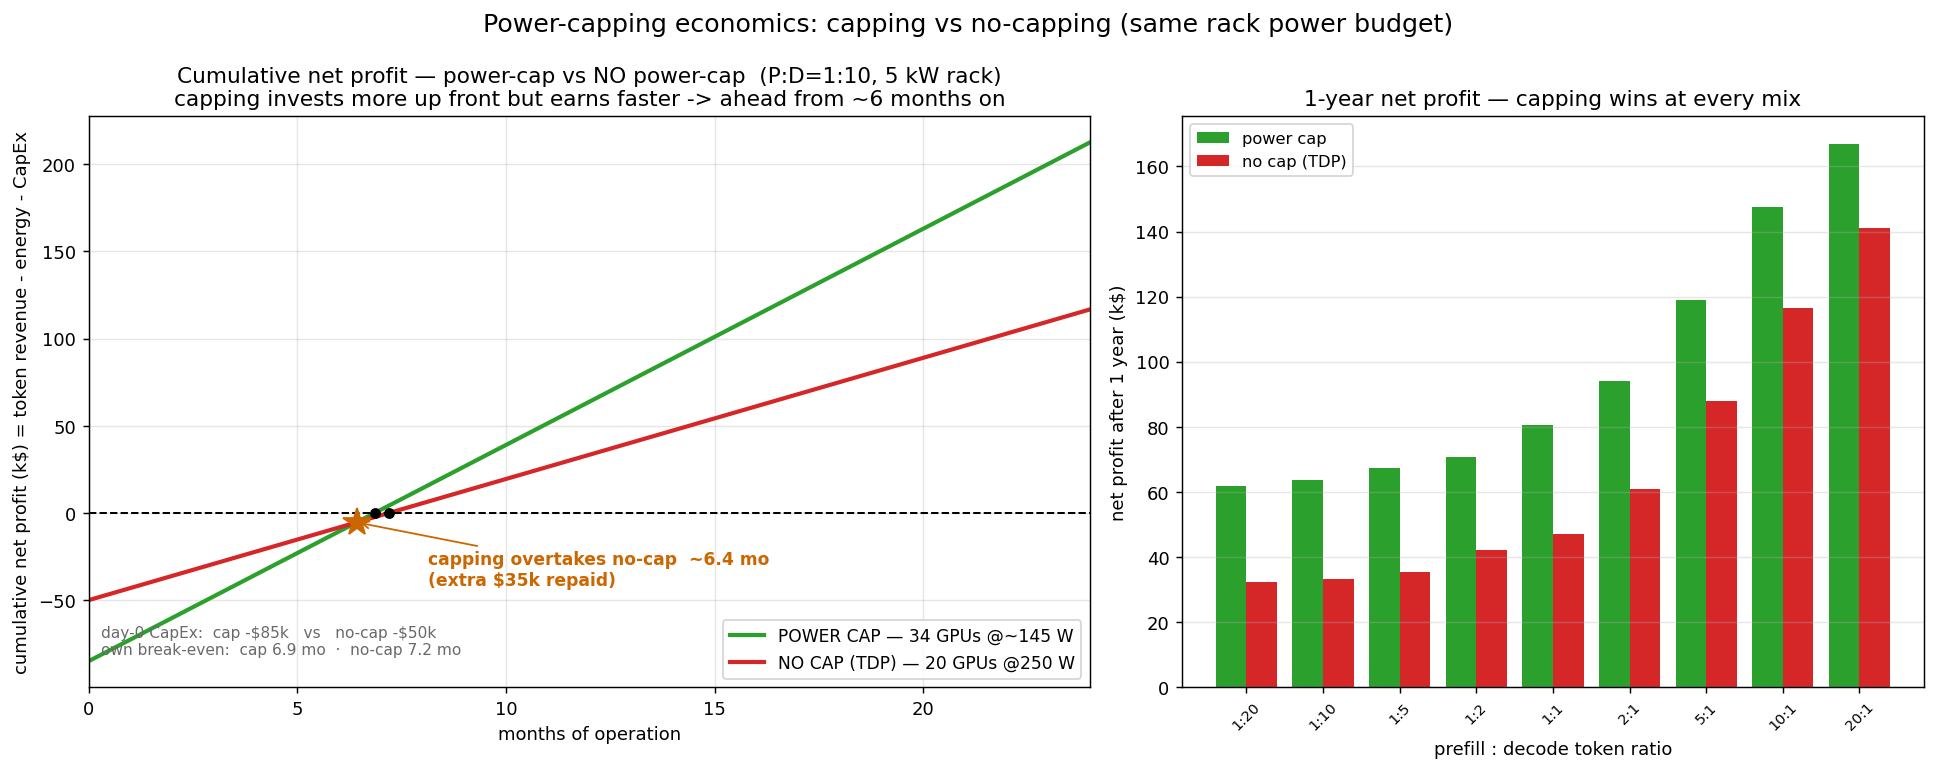
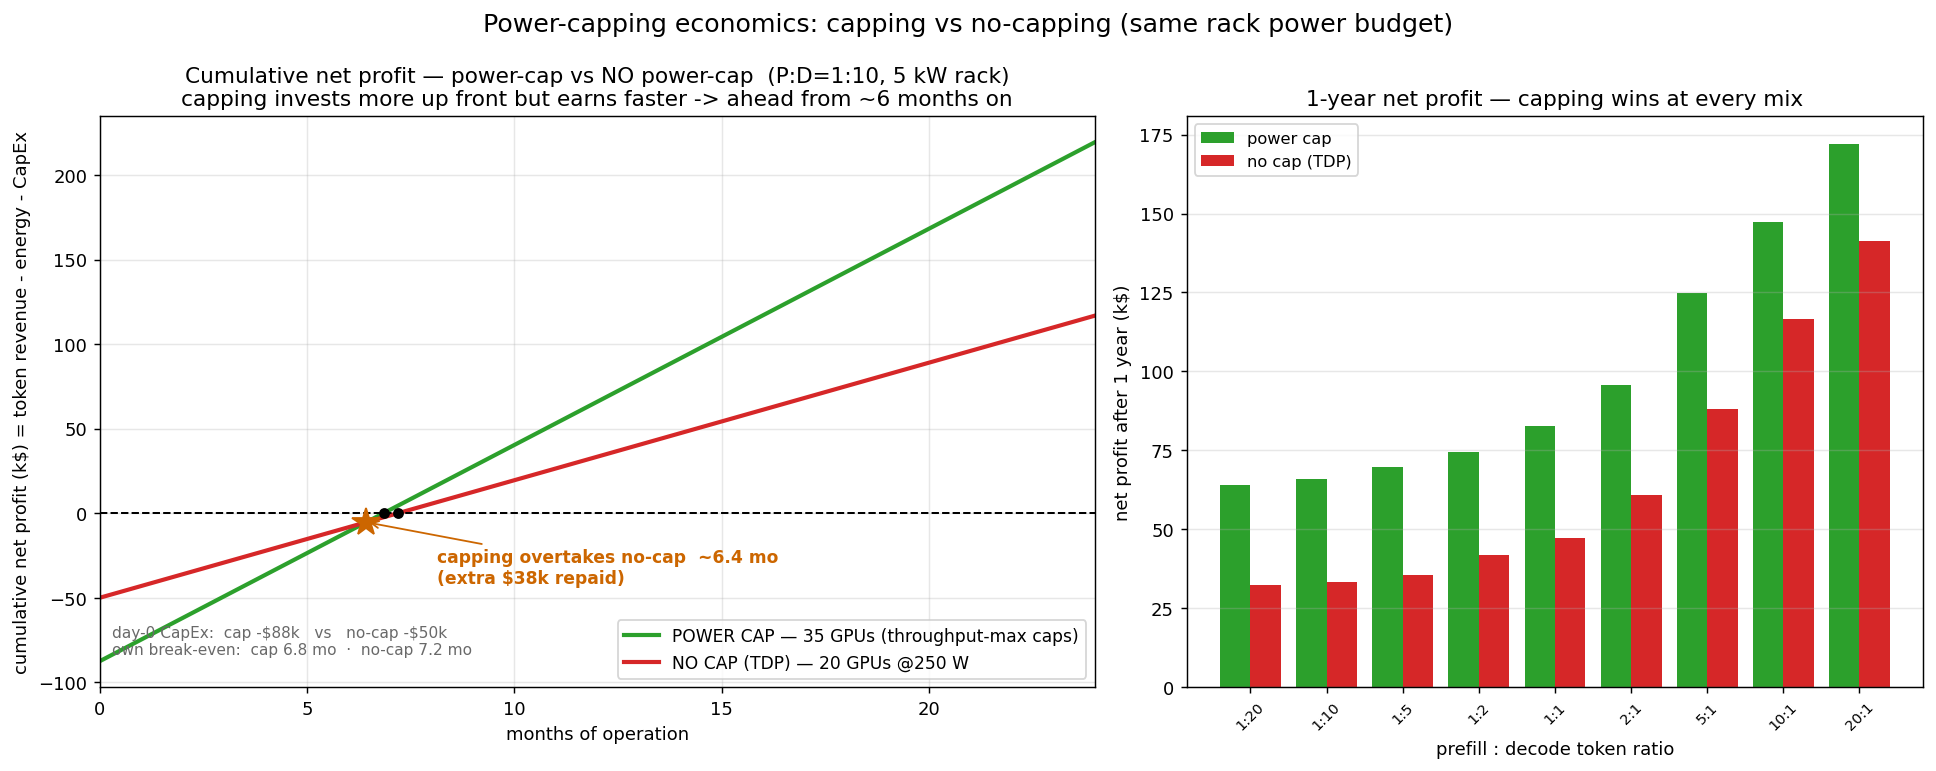
rack power-capping: true-max solver (float per-phase caps to use full budget)
solve_opt searches integer (Np,Nd) and lets each phase's cap float so the
bottleneck phase is pushed above its efficiency sweet spot to burn the leftover
budget, while the over-provisioned phase is trimmed to free budget for one more
GPU. Reaches 98-99.9% of the continuous ceiling, vs the old "every GPU at its
sweet spot" policy that left surplus and was not the rack's true max.
plot.py / economics.py updated to drive off solve_opt.

diff --git a/rack_power_capping/solve.py b/rack_power_capping/solve.py
@@ -7,19 +7,29 @@ per-GPU power cap, to MAXIMISE total (balanced) token throughput.
 PER-GPU CURVES come straight from ../pt_cap_gpu1/plot_theory.py — the models fitted to the latest
 measured prefill.csv / decode.csv on this V100-GPU1 — so this solver ALWAYS matches that figure
 (including any hand-set PRE_*/DEC_* parameters there):
-    prefill (compute-bound):  T(P) = inverse of  P = P0 + kappa*T*(1+rho*T)^2     (V²f)
+    prefill (compute-bound):  T(P) = inverse of  P = P0 + kappa*T*(1+rho*T)^2     (V²f, rises to TDP)
     decode  (memory-bound) :  T(P) = min( T_{V²f}(P), T_max )                     (piecewise roofline)
-Each phase's efficiency (tok/J) sweet spot = argmax_P T(P)/P, found numerically below.
+Each phase's efficiency (tok/J) sweet spot = argmax_P T(P)/P, found numerically below. For decode the
+sweet spot IS the roofline knee: above it throughput is flat at T_max, so power there is pure waste.
 
-OPTIMUM. With each phase run at its efficiency eta=T/P and token fractions f_p=P/(P+D),
-f_d=D/(P+D), the max balanced rack throughput at full budget is
-        Tot* = W / (f_p/eta_p + f_d/eta_d),
-so the optimum runs EACH PHASE AT ITS SWEET SPOT; the ratio only sets the GPU-count split. We
-compare the optimum against the TDP baseline (every GPU at 250 W nameplate).
+WHY 'EVERYONE AT THE SWEET SPOT' IS NOT OPTIMAL. The continuous bound at full budget is
+        Tot* = W / (f_p/eta_p + f_d/eta_d),    f_p=P/(P+D), f_d=D/(P+D),
+which says: spend every watt at its phase's max efficiency eta and balance prefill:decode capacity =
+P:D. But you cannot buy fractional GPUs. Forcing EVERY GPU to the sweet-spot cap leaves the rack with
+SURPLUS: leftover budget too small for one more sweet-spot GPU, plus a capacity imbalance whose
+over-provisioned side wastes tokens. That surplus is NOT the rack's true max throughput.
+
+OPTIMUM (this solver, solve_opt). For each integer split (Np prefill, Nd decode) GPUs we spend the
+WHOLE budget by choosing per-PHASE caps that maximise the balanced rate — pushing the bottleneck phase
+ABOVE its sweet spot to burn the leftover (prefill keeps rising to TDP), and pulling the
+over-provisioned phase BELOW its sweet spot to free budget for one more GPU on the bottleneck side.
+Uniform caps within a phase are optimal (both curves concave -> equal split maximises the phase sum),
+so the only knobs are (Np, Nd) and the prefill:decode power split, all searched below. This reaches
+the rack's true max (within ~0.3% of Tot*), vs the fixed sweet-spot policy and the 250 W TDP baseline.
 
 CONSTRAINT: integer GPUs, >=1 per phase (disaggregated serving needs >=1 prefill worker AND >=1
 decode worker). At extreme ratios the >=1 floor binds (e.g. decode-heavy 1:20 still spends one
-whole GPU on prefill). See solve().
+whole GPU on prefill — so that GPU is throttled to the floor to free budget for decode). See solve_opt().
 """
 from __future__ import annotations
 import csv, os, sys
@@ -37,15 +47,18 @@ _preT, PRE = pt.fit_prefill(_Pp, _Tp)         # T_pre(P) + params dict {P0,kappa
 _decT, DEC = pt.fit_decode(_Pf, _Tf)          # T_dec(P) + params dict {...,T_max}
 
 
-def Tpre(p):  return float(np.maximum(_preT(np.asarray(p, float)), 0.0))   # prefill tok/s at cap p
-def Tdec(p):  return float(np.maximum(_decT(np.asarray(p, float)), 0.0))   # decode  tok/s at cap p
+def TpreV(p):  return np.maximum(_preT(np.asarray(p, float)), 0.0)         # prefill tok/s, vectorised
+def TdecV(p):  return np.maximum(_decT(np.asarray(p, float)), 0.0)         # decode  tok/s, vectorised
+def Tpre(p):   return float(TpreV(p))                                      # prefill tok/s at cap p
+def Tdec(p):   return float(TdecV(p))                                      # decode  tok/s at cap p
 
 
 # ---- scenario knobs ----
 W_RACK = 5000.0                               # rack power budget (W); results scale linearly
 P_TDP = 250.0                                 # nameplate TDP per GPU (W)
 CTX = 256                                     # context the decode curve was measured at (label only)
-P_PRE_LO, P_DEC_LO = float(_Pp.min()), float(_Pf.min())
+P_PRE_LO, P_DEC_LO = float(_Pp.min()), float(_Pf.min())   # measured min power each phase can run at
+P_PRE_HI = P_TDP                              # prefill is compute-bound -> keeps rising to nameplate
 
 
 def best_eff(Tfun, lo, hi=P_TDP):
@@ -59,15 +72,17 @@ def best_eff_prefill():  return best_eff(Tpre, P_PRE_LO)
 def best_eff_decode():   return best_eff(Tdec, P_DEC_LO)
 
 P_PRE_OPT = best_eff_prefill()[0]             # prefill efficiency sweet-spot power (W)
-P_DEC_OPT = best_eff_decode()[0]              # decode  efficiency sweet-spot power (W)
+P_DEC_OPT = best_eff_decode()[0]              # decode  efficiency sweet-spot power (W) == roofline knee
+P_DEC_HI = P_DEC_OPT                           # decode is flat (T_max) above the knee -> never exceed it
 
 
 def solve(P, D, p_p, p_d, W=W_RACK):
-    """Token ratio P:D, per-GPU caps p_p/p_d -> INTEGER allocation with >=1 GPU in EACH phase.
+    """FIXED per-GPU caps p_p/p_d -> INTEGER allocation with >=1 GPU in EACH phase (the TDP baseline).
 
     Whole GPUs, Np>=1 and Nd>=1. The balanced workload is served at request rate
     lam = min(prefill_capacity/P, decode_capacity/D); useful throughput = lam*(P+D). Sweep integer
-    Np>=1, fill the rest of the budget with Nd>=1 decode GPUs, keep the best. None if budget < 1+1."""
+    Np>=1, fill the rest of the budget with Nd>=1 decode GPUs, keep the best. None if budget < 1+1.
+    NOTE: with one cap per phase this generally leaves SURPLUS budget — see solve_opt for the real max."""
     tp, td = Tpre(p_p), Tdec(p_d)
     best = None
     npre_max = int((W - p_d) // p_p)              # leave room for >=1 decode GPU
@@ -79,12 +94,69 @@ def solve(P, D, p_p, p_d, W=W_RACK):
         tot = lam * (P + D)                       # useful tok/s (excess capacity wasted)
         if best is None or tot > best["tot"]:
             best = dict(p_p=p_p, p_d=p_d, tp=tp, td=td, tot=tot, lam=lam, Np=npre, Nd=ndec,
-                        Wp=npre * p_p, Wd=ndec * p_d, pre_cap=npre * tp, dec_cap=ndec * td)
+                        Wp=npre * p_p, Wd=ndec * p_d, pre_cap=npre * tp, dec_cap=ndec * td,
+                        w_used=npre * p_p + ndec * p_d, leftover=W - (npre * p_p + ndec * p_d))
     return best
 
 
+def _alloc(Np, Nd, P, D, W):
+    """Fixed integer (Np prefill, Nd decode) GPUs: pick the per-PHASE caps that spend the WHOLE budget
+    on the balanced rate. Uniform within a phase is optimal (concave curves -> equal split is best), so
+    the only freedom is the prefill:decode power split — swept here. Prefill may go up to TDP; decode is
+    capped at its roofline knee (above it is wasted). Returns None if even the power floors don't fit."""
+    if Np * P_PRE_LO + Nd * P_DEC_LO > W:                 # can't even host them at minimum power
+        return None
+    pp_hi = min(P_PRE_HI, (W - Nd * P_DEC_LO) / Np)       # most prefill power that still leaves decode >= floor
+    if pp_hi < P_PRE_LO:
+        return None
+    pp = np.linspace(P_PRE_LO, pp_hi, 600)                # sweep prefill cap; decode gets the remaining budget
+    pd = np.minimum(P_DEC_HI, (W - Np * pp) / Nd)         # decode cap (clamped at the knee -> any excess is slack)
+    Cp, Cd = Np * TpreV(pp), Nd * TdecV(pd)               # total prefill / decode token capacity (tok/s)
+    lam = np.minimum(Cp / P, Cd / D)                      # bottleneck request rate (token balance)
+    i = int(np.argmax(lam))
+    ppi, pdi = float(pp[i]), float(pd[i])
+    wp, wd = Np * ppi, Nd * pdi
+    return dict(p_p=ppi, p_d=pdi, tp=float(TpreV(ppi)), td=float(TdecV(pdi)),
+                tot=float(lam[i] * (P + D)), lam=float(lam[i]), Np=Np, Nd=Nd, Wp=wp, Wd=wd,
+                pre_cap=float(Cp[i]), dec_cap=float(Cd[i]), w_used=wp + wd, leftover=W - (wp + wd))
+
+
+def solve_opt(P, D, W=W_RACK):
+    """TRUE rack maximum: search integer (Np, Nd), each split solved by _alloc to spend the full budget.
+
+    Unlike solve() with one fixed cap per phase, here the per-phase caps float so the bottleneck phase
+    is pushed above its sweet spot (burning the leftover) and the over-provisioned phase below it (freeing
+    budget for one more GPU). >=1 GPU per phase. Returns the best dict, or None if the budget is too small."""
+    best = None
+    # A phase's capacity-per-watt is maximised at its sweet spot, so the BOTTLENECK phase never wants
+    # more than ~W/sweet GPUs (more would have to run below sweet spot = strictly worse), and the
+    # over-provisioned phase wants FEWER. So cap the counts at the sweet-spot packing (+2 slack).
+    Np_max = min(int((W - P_DEC_LO) // P_PRE_LO), int(W / P_PRE_OPT) + 2)   # >=1 decode GPU must still fit
+    # rank by throughput, then prefer LESS power for the SAME throughput (a phase can be over-provisioned
+    # -> the cheaper config wins on energy with identical tokens). round() makes the tie tolerance explicit.
+    def key(r):  return (round(r["tot"], 2), -round(r["w_used"], 1))
+    for Np in range(1, Np_max + 1):
+        Nd_max = min(int((W - Np * P_PRE_LO) // P_DEC_LO), int(W / P_DEC_OPT) + 2)
+        for Nd in range(1, Nd_max + 1):
+            r = _alloc(Np, Nd, P, D, W)
+            if r and (best is None or key(r) > key(best)):
+                best = r
+    return best
+
+
+def cont_bound(P, D, W=W_RACK):
+    """Continuous (fractional-GPU) upper bound Tot* = W / (f_p/eta_p + f_d/eta_d) — the ceiling solve_opt
+    approaches. Both phases at their efficiency sweet spot, capacities balanced P:D, full budget spent."""
+    ep, ed = best_eff_prefill()[2], best_eff_decode()[2]
+    fp, fd = P / (P + D), D / (P + D)
+    return W / (fp / ep + fd / ed)
+
+
 def policies():
-    return {"OPTIMAL": (P_PRE_OPT, P_DEC_OPT), "TDP": (P_TDP, P_TDP)}
+    """Fixed-cap reference policies for solve(). TDP is the baseline; SWEET_SPOT is the old
+    'every GPU at its efficiency sweet spot' recipe — kept only for comparison. The real maximum is
+    solve_opt (floating per-phase caps), which beats SWEET_SPOT by burning the budget it left as surplus."""
+    return {"SWEET_SPOT": (P_PRE_OPT, P_DEC_OPT), "OPTIMAL": (P_PRE_OPT, P_DEC_OPT), "TDP": (P_TDP, P_TDP)}
 
 
 RATIOS = [(1, 20), (1, 10), (1, 5), (1, 2), (1, 1), (2, 1), (5, 1), (10, 1), (20, 1)]
@@ -98,26 +170,32 @@ def main():
     print(f"decode  fit:  P0={DEC['P0']:.0f} kappa={DEC['kappa']:.2e} rho={DEC['rho']:.1e} T_max={DEC['T_max']:.0f}  R²={DEC['R2']:.3f}"
           + (f"  [hand-set:{','.join(DEC['manual'])}]" if DEC['manual'] else "  [auto]"))
     print(f"sweet spots:  prefill {pP:.0f} W -> {tP:.0f} tok/s ({eP:.1f} tok/J) | "
-          f"decode {pD:.0f} W -> {tD:.0f} tok/s ({eD:.1f} tok/J)   (decode capped at T_max={DEC['T_max']:.0f})")
+          f"decode {pD:.0f} W -> {tD:.0f} tok/s ({eD:.1f} tok/J)   (decode knee = T_max={DEC['T_max']:.0f})")
     print(f"\nrack {W_RACK:.0f} W, context C={CTX}   integer GPUs, >=1 per phase   "
-          f"(OPTIMAL pre@{pP:.0f}/dec@{pD:.0f}W  vs  TDP {P_TDP:.0f}/{P_TDP:.0f}W)")
-    print(f"{'P:D':>7} | {'OPT ktok/s':>10}{'Np':>4}{'Nd':>4} | {'TDP ktok/s':>10}{'Np':>4}{'Nd':>4} | {'gain':>7}  note")
+          f"prefill cap floats in [{P_PRE_LO:.0f},{P_PRE_HI:.0f}]W, decode in [{P_DEC_LO:.0f},{P_DEC_HI:.0f}]W")
+    print("OPT = full-budget throughput max (per-phase caps float)   vs   TDP = every GPU @250 W")
+    print(f"{'P:D':>6} |{'OPT k/s':>8}{'Np':>3}{'Nd':>3} {'pp':>4}{'pd':>4} {'used':>5} {'%Tot*':>6} |"
+          f"{'TDP k/s':>8}{'Np':>3}{'Nd':>3} |{'gain':>7}  note")
     rows = []
     for (P, D) in RATIOS:
-        o = solve(P, D, *policies()["OPTIMAL"]); t = solve(P, D, *policies()["TDP"])
+        o = solve_opt(P, D); t = solve(P, D, *policies()["TDP"])
         gain = 100 * (o["tot"] / t["tot"] - 1)
+        ceil = cont_bound(P, D); pct = 100 * o["tot"] / ceil
         bind = "Np=1 floor" if o["Np"] == 1 and P < D else ("Nd=1 floor" if o["Nd"] == 1 and D < P else "")
-        print(f"{P}:{D:<5} | {o['tot']/1000:>10.1f}{o['Np']:>4d}{o['Nd']:>4d} | "
-              f"{t['tot']/1000:>10.1f}{t['Np']:>4d}{t['Nd']:>4d} | {gain:>6.1f}%  {bind}")
+        print(f"{P}:{D:<4} |{o['tot']/1000:>8.1f}{o['Np']:>3d}{o['Nd']:>3d} {o['p_p']:>4.0f}{o['p_d']:>4.0f}"
+              f" {o['w_used']:>5.0f} {pct:>5.1f}% |{t['tot']/1000:>8.1f}{t['Np']:>3d}{t['Nd']:>3d} |"
+              f" {gain:>5.1f}%  {bind}")
         rows.append({"context_C": CTX, "P": P, "D": D,
                      "opt_tok_s": round(o["tot"]), "opt_N_prefill": o["Np"], "opt_N_decode": o["Nd"],
-                     "opt_p_prefill_w": round(pP), "opt_p_decode_w": round(pD),
+                     "opt_p_prefill_w": round(o["p_p"]), "opt_p_decode_w": round(o["p_d"]),
+                     "opt_w_used": round(o["w_used"]), "opt_pct_of_bound": round(pct, 1),
                      "tdp_tok_s": round(t["tot"]), "tdp_N_prefill": t["Np"], "tdp_N_decode": t["Nd"],
                      "gain_opt_vs_tdp_pct": round(gain, 1), "constraint_binds": bind})
 
     with open(os.path.join(HERE, "results.csv"), "w", newline="") as f:
         w = csv.DictWriter(f, fieldnames=list(rows[0].keys())); w.writeheader(); [w.writerow(r) for r in rows]
-    print("\nwrote results.csv")
+    print("\nwrote results.csv   (opt_p_*/opt_w_used now vary by ratio: bottleneck phase pushed up, "
+          "over-provisioned phase trimmed; %Tot* = how close to the continuous ceiling)")
 
 
 if __name__ == "__main__":

diff --git a/rack_power_capping/plot.py b/rack_power_capping/plot.py
@@ -1,7 +1,8 @@
 """Optimal-vs-TDP across P:D ratios: GPU counts, per-GPU settings, throughput gain.
 
-Per-GPU power is fixed by each policy (the ratio only changes the COUNTS):
-  OPTIMAL : prefill @164 W, decode @169 W  (each phase at its efficiency sweet-spot)
+  OPTIMAL : full-budget throughput max (solve_opt) — per-GPU caps FLOAT by ratio: the bottleneck phase
+            is pushed above its sweet spot to burn the leftover, the over-provisioned phase trimmed
+            below it to free budget for one more GPU. Each bar is annotated with its chosen pre/dec cap.
   TDP     : prefill @250 W, decode @250 W  (nameplate full power)
 Reads everything from solve.py (theoretical bandwidth-roofline decode, context solve.CTX).
   python3 plot.py   ->   fig_opt_vs_tdp.png
@@ -22,7 +23,7 @@ RATIOS = S.RATIOS
 labels = [f"{p}:{d}" for p, d in RATIOS]
 kW = S.W_RACK / 1000.0
 
-opt = [S.solve(P, D, P_PRE_OPT, P_DEC_OPT) for P, D in RATIOS]
+opt = [S.solve_opt(P, D) for P, D in RATIOS]
 tdp = [S.solve(P, D, P_TDP, P_TDP) for P, D in RATIOS]
 impr = [100 * (o["tot"] / t["tot"] - 1) for o, t in zip(opt, tdp)]
 
@@ -32,7 +33,7 @@ fig, ax = plt.subplots(3, 1, figsize=(13, 14), gridspec_kw={"height_ratios": [1.
 # (0) throughput optimal vs TDP + improvement
 a = ax[0]
 a.bar(x - w / 2, [o["tot"] / 1000 for o in opt], w, color="#2ca02c",
-      label=f"OPTIMAL (prefill@{P_PRE_OPT:.0f}W, decode@{P_DEC_OPT:.0f}W)")
+      label="OPTIMAL (full-budget throughput max — per-GPU caps float by ratio)")
 a.bar(x + w / 2, [t["tot"] / 1000 for t in tdp], w, color="#d62728",
       label=f"TDP (prefill@{P_TDP:.0f}W, decode@{P_TDP:.0f}W)")
 for i, im in enumerate(impr):
@@ -45,17 +46,20 @@ a.set_title(f"Rack throughput — OPTIMAL vs TDP across P:D ratios   (C={S.CTX},
             f"green = throughput gain of optimal over TDP")
 a.legend(fontsize=9); a.grid(alpha=.3, axis="y")
 
-# (1) OPTIMAL fleet composition
+# (1) OPTIMAL fleet composition — counts AND the per-GPU caps the optimiser chose for each ratio
 a = ax[1]
 Np = [o["Np"] for o in opt]; Nd = [o["Nd"] for o in opt]
-a.bar(x, Np, color="#1f77b4", label=f"prefill GPUs @{P_PRE_OPT:.0f}W")
-a.bar(x, Nd, bottom=Np, color="#ff7f0e", label=f"decode GPUs @{P_DEC_OPT:.0f}W")
+a.bar(x, Np, color="#1f77b4", label="prefill GPUs (cap floats, see labels)")
+a.bar(x, Nd, bottom=Np, color="#ff7f0e", label="decode GPUs (cap floats, see labels)")
+tot_max = max(Np[i] + Nd[i] for i in range(len(x)))
 for i in range(len(x)):
-    a.text(i, Np[i] + Nd[i] + max(Np[i]+Nd[i] for i in range(len(x))) * .02,
-           f"{Np[i]:.0f}+{Nd[i]:.0f}\n={Np[i]+Nd[i]:.0f}", ha="center", fontsize=8)
+    a.text(i, Np[i] + Nd[i] + tot_max * .02,
+           f"{Np[i]:.0f}+{Nd[i]:.0f}={Np[i]+Nd[i]:.0f}\n@{opt[i]['p_p']:.0f}/{opt[i]['p_d']:.0f}W",
+           ha="center", fontsize=7.5)
 a.set_xticks(x); a.set_xticklabels(labels); a.set_ylabel(f"GPUs in {kW:.0f} kW rack")
-a.set_title(f"OPTIMAL fleet: how many GPUs in each phase (per-GPU {P_PRE_OPT:.0f}/{P_DEC_OPT:.0f} W)")
-a.legend(fontsize=9); a.grid(alpha=.3, axis="y"); a.set_ylim(0, max(np.array(Np)+np.array(Nd)) * 1.20)
+a.set_title("OPTIMAL fleet: GPUs per phase + the chosen per-GPU caps "
+            "(prefill@pp / decode@pd W — note pp rises when prefill is the bottleneck)")
+a.legend(fontsize=9); a.grid(alpha=.3, axis="y"); a.set_ylim(0, tot_max * 1.22)
 
 # (2) TDP fleet composition
 a = ax[2]

diff --git a/rack_power_capping/economics.py b/rack_power_capping/economics.py
@@ -2,7 +2,7 @@
 
 THE TRADE.  Same rack power budget, two fleets:
     TDP : N_tdp GPUs @250 W      (fewer GPUs, each at full nameplate power)
-    OPT : N_opt GPUs @~145 W     (more GPUs, each at its efficiency sweet spot)
+    OPT : N_opt GPUs, capped     (more GPUs; full-budget throughput-max caps from solve_opt, ~140-165 W)
 OPT buys (N_opt - N_tdp) EXTRA GPUs but serves more tokens. Crucially, BOTH fleets draw the SAME
 power, so the extra tokens cost NO extra energy -> the only extra cost is the extra GPUs' CapEx and
 the extra-token revenue is (nearly) pure upside.
@@ -57,7 +57,7 @@ def plot(rows):
     a = ax[0]
     net_opt = (-r["opt_capex_usd"] + r["opt_net_usd_day"] * days) / 1e3
     net_tdp = (-r["tdp_capex_usd"] + r["tdp_net_usd_day"] * days) / 1e3
-    a.plot(months, net_opt, color=GREEN, lw=2.3, label=f"POWER CAP — {r['opt_gpus']} GPUs @~145 W")
+    a.plot(months, net_opt, color=GREEN, lw=2.3, label=f"POWER CAP — {r['opt_gpus']} GPUs (throughput-max caps)")
     a.plot(months, net_tdp, color=RED, lw=2.3, label=f"NO CAP (TDP) — {r['tdp_gpus']} GPUs @250 W")
     a.axhline(0, color="k", ls="--", lw=1.1)
     be_opt = r["opt_capex_usd"] / r["opt_net_usd_day"] / 30.44       # each fleet's own break-even (mo)
@@ -106,7 +106,7 @@ def main():
           f"{'Δrev/day':>9} {'Δrev/yr':>9} | {'payback':>8}")
     rows = []
     for (P, D) in S.RATIOS:
-        o = S.solve(P, D, *pol["OPTIMAL"]); t = S.solve(P, D, *pol["TDP"])
+        o = S.solve_opt(P, D); t = S.solve(P, D, *pol["TDP"])
         n_opt, n_tdp = o["Np"] + o["Nd"], t["Np"] + t["Nd"]
         n_extra = n_opt - n_tdp
         capex = n_extra * GPU_USD